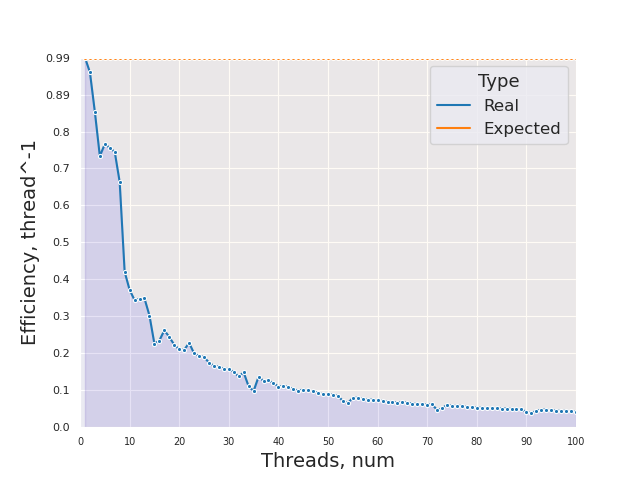
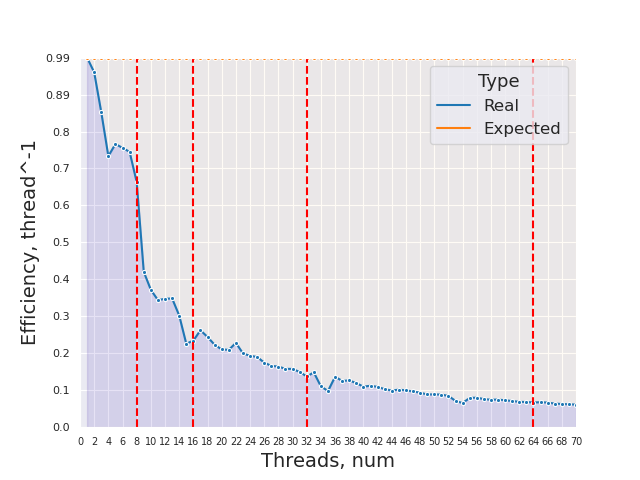
nicer

Changed region(s): [[0.125, 0.125, 0.4062, 0.7812], [0.375, 0.75, 0.9062, 0.875], [0.1875, 0.9062, 0.9062, 0.9375]]

diff --git a/lab2/graphs/graph.py b/lab2/graphs/graph.py
@@ -35,7 +35,7 @@ def get_plot(ylabel, unit, unitbound, threadbound, filename, all_ts):
 
     p.margins(x=0, y=0)
 
-    step = datalen // 10
+    step = 2
     p.set_xticks(srange(0, datalen + 1, step))
     p.set_xticklabels([str(x) for x in srange(0, datalen + 1, step)])
 
@@ -45,10 +45,14 @@ def get_plot(ylabel, unit, unitbound, threadbound, filename, all_ts):
         [str(floor(100 * x) / 100.0) for x in srange(0, unitbound + step, step)]
     )
 
+    for _ in range(3, 7):
+        p.axvline(x=2**_, color="red", linestyle="--", label="cores")
+
+
     p.figure.savefig(filename)
 
 
-threadbound = 100
+threadbound = 70
 ts = ts[:threadbound]
 t_succ = ts[0][1]
 
